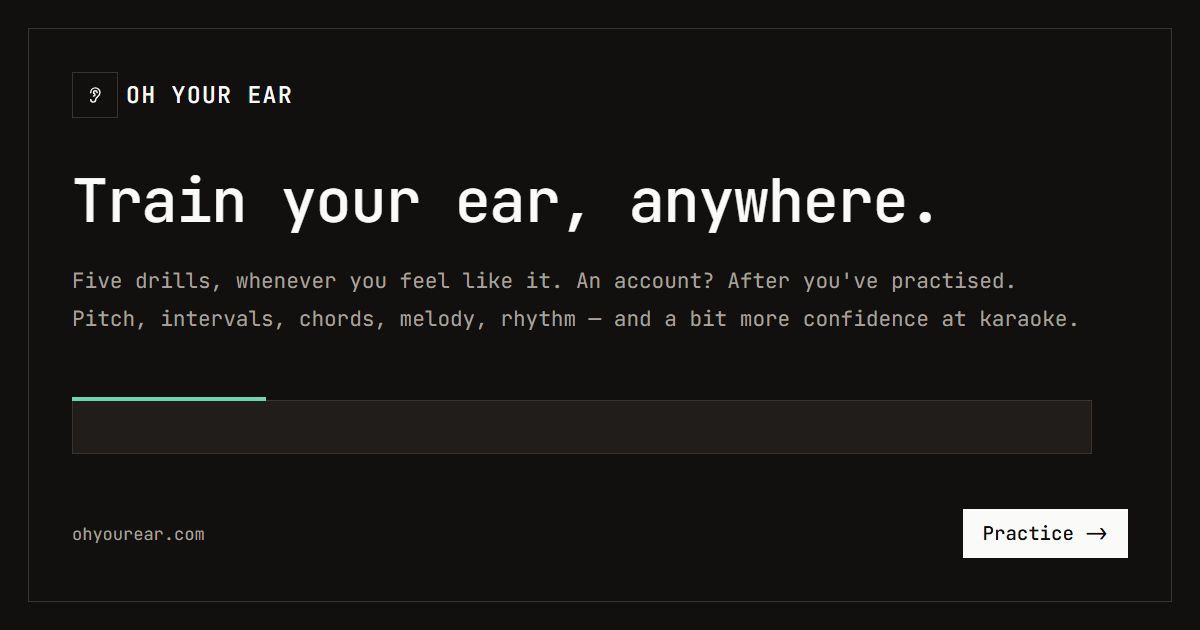
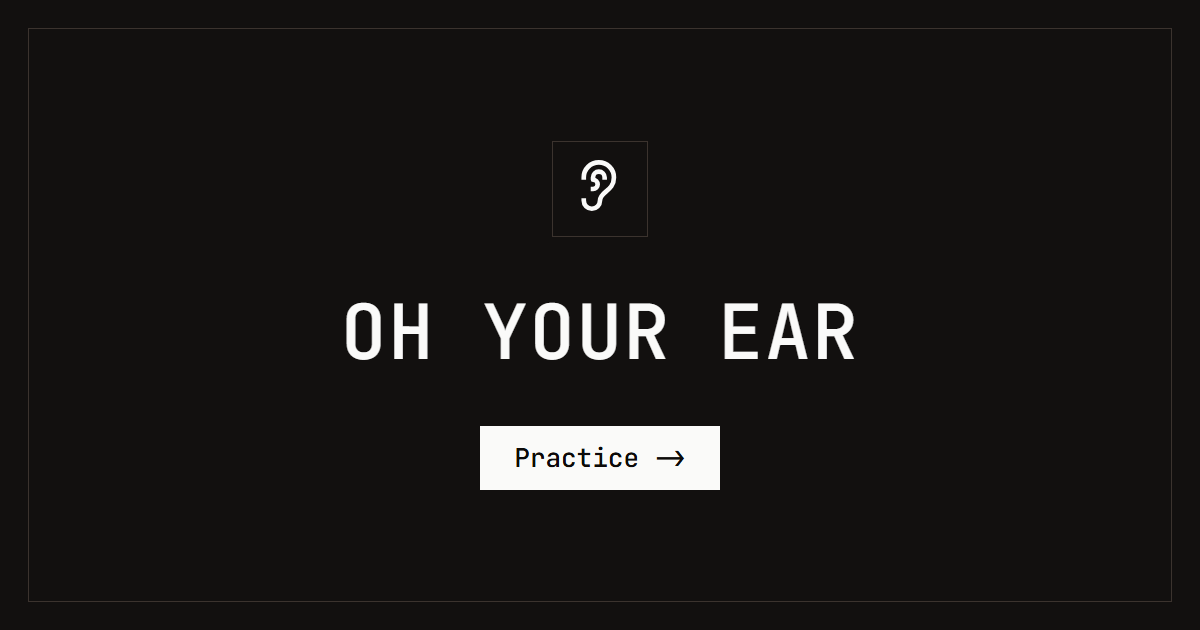
fix(landing): three things on the share card
The mark, the name, the call to action, centred — everything else read as an
unfinished page in a feed, where the card is shown a few hundred pixels wide.
The ear is cropped to its own bounding box so it fills the plate.

diff --git a/apps/landing/og-card.html b/apps/landing/og-card.html
@@ -11,9 +11,11 @@
           --screenshot=apps/landing/public/og.png \
           http://localhost:5174/og-card.html
 
-      The card is English on purpose: it rides along with the title, the description and
-      llms.txt, all of which a crawler or a link preview reads. Keep the copy in step with
-      apps/landing/src/i18n/locales/en/landing.json and the palette in
+      Three things and nothing else: the mark, the name, the call to action. A share card
+      is shown small, so anything else turns into grey mush in a feed.
+
+      English on purpose: it rides with the title, the description and llms.txt, all of
+      which a crawler or a link preview reads. Keep the palette in step with
       packages/shared/src/tokens.css.
     -->
     <style>
@@ -40,78 +42,41 @@
         font-family: 'JetBrains Mono', ui-monospace, 'DejaVu Sans Mono', monospace;
         font-feature-settings: 'zero' 1;
         -webkit-font-smoothing: antialiased;
+        display: flex;
       }
-      /* The card is framed like everything else in the product: one hairline, inset. */
+      /* Framed like everything else in the product: one hairline, inset. */
       .frame {
         position: absolute;
         inset: 28px;
         border: 1px solid #3b332e;
       }
-      .pad {
-        position: absolute;
-        left: 72px;
-        right: 72px;
+      .stack {
+        margin: auto;
+        display: flex;
+        flex-direction: column;
+        align-items: center;
+        gap: 44px;
       }
       .mark {
-        display: flex;
-        align-items: center;
-        gap: 8px;
-      }
-      .mark svg {
-        width: 46px;
-        height: 46px;
+        width: 96px;
+        height: 96px;
+        padding: 18px;
         border: 1px solid #3b332e;
-        padding: 9px;
+        color: #fafaf9;
       }
-      .wordmark {
-        font-size: 23px;
+      .name {
+        font-size: 76px;
         font-weight: 500;
-        letter-spacing: 0.06em;
-      }
-      .tagline {
-        font-size: 60px;
-        font-weight: 500;
-        letter-spacing: -0.02em;
-      }
-      .lines {
-        color: #a8a29e;
-        font-size: 21px;
-        line-height: 38px;
-      }
-      /* The progress bar: the app's own motif — a track, and the part already heard. */
-      .track {
-        position: relative;
-        width: 1020px;
-        height: 54px;
-        background: #211d1b;
-        border: 1px solid #3b332e;
-      }
-      .track::before {
-        content: '';
-        position: absolute;
-        left: -1px;
-        top: -4px;
-        width: 194px;
-        height: 4px;
-        background: #6fd3b4;
-      }
-      .bottom {
-        display: flex;
-        align-items: center;
-        justify-content: space-between;
-      }
-      .url {
-        color: #a8a29e;
-        font-size: 17px;
+        letter-spacing: 0.02em;
       }
       .cta {
         display: flex;
         align-items: center;
-        height: 49px;
-        padding: 0 20px;
+        height: 64px;
+        padding: 0 34px;
         background: #fafaf9;
         color: #0c0a09;
-        font-size: 19px;
+        font-size: 26px;
         font-weight: 500;
       }
     </style>
@@ -119,35 +84,17 @@
   <body>
     <div class="frame"></div>
 
-    <div class="pad mark" style="top: 72px">
-      <svg
-        viewBox="0 0 32 32"
-        fill="none"
-        stroke="#fafaf9"
-        stroke-width="2"
-        stroke-linecap="square"
-        stroke-linejoin="round"
-      >
-        <g transform="translate(5.5 5.5) scale(0.875)">
-          <path d="M6 8.5a6.5 6.5 0 1 1 13 0c0 6-6 6-6 10a3.5 3.5 0 1 1-7 0" />
-          <path d="M15 8.5a2.5 2.5 0 0 0-5 0v1a2 2 0 1 1 0 4" />
-        </g>
+    <div class="stack">
+      <!-- lucide's ear, cropped to its own bounding box so the glyph fills the plate
+           instead of floating small in the middle of a 32-unit frame. -->
+      <svg class="mark" viewBox="5 1 16 25" fill="none" stroke="currentColor" stroke-width="2" stroke-linecap="square" stroke-linejoin="round">
+        <path d="M6 8.5a6.5 6.5 0 1 1 13 0c0 6-6 6-6 10a3.5 3.5 0 1 1-7 0" />
+        <path d="M15 8.5a2.5 2.5 0 0 0-5 0v1a2 2 0 1 1 0 4" />
       </svg>
-      <span class="wordmark">OH YOUR EAR</span>
-    </div>
 
-    <div class="pad tagline" style="top: 161px">Train your ear, anywhere.</div>
+      <div class="name">OH YOUR EAR</div>
 
-    <div class="pad lines" style="top: 262px">
-      Five drills, whenever you feel like it. An account? After you've practised.<br />
-      Pitch, intervals, chords, melody, rhythm — and a bit more confidence at karaoke.
-    </div>
-
-    <div class="pad" style="top: 400px"><div class="track"></div></div>
-
-    <div class="pad bottom" style="top: 509px">
-      <span class="url">ohyourear.com</span>
-      <span class="cta">Practice -&gt;</span>
+      <div class="cta">Practice -&gt;</div>
     </div>
   </body>
 </html>
